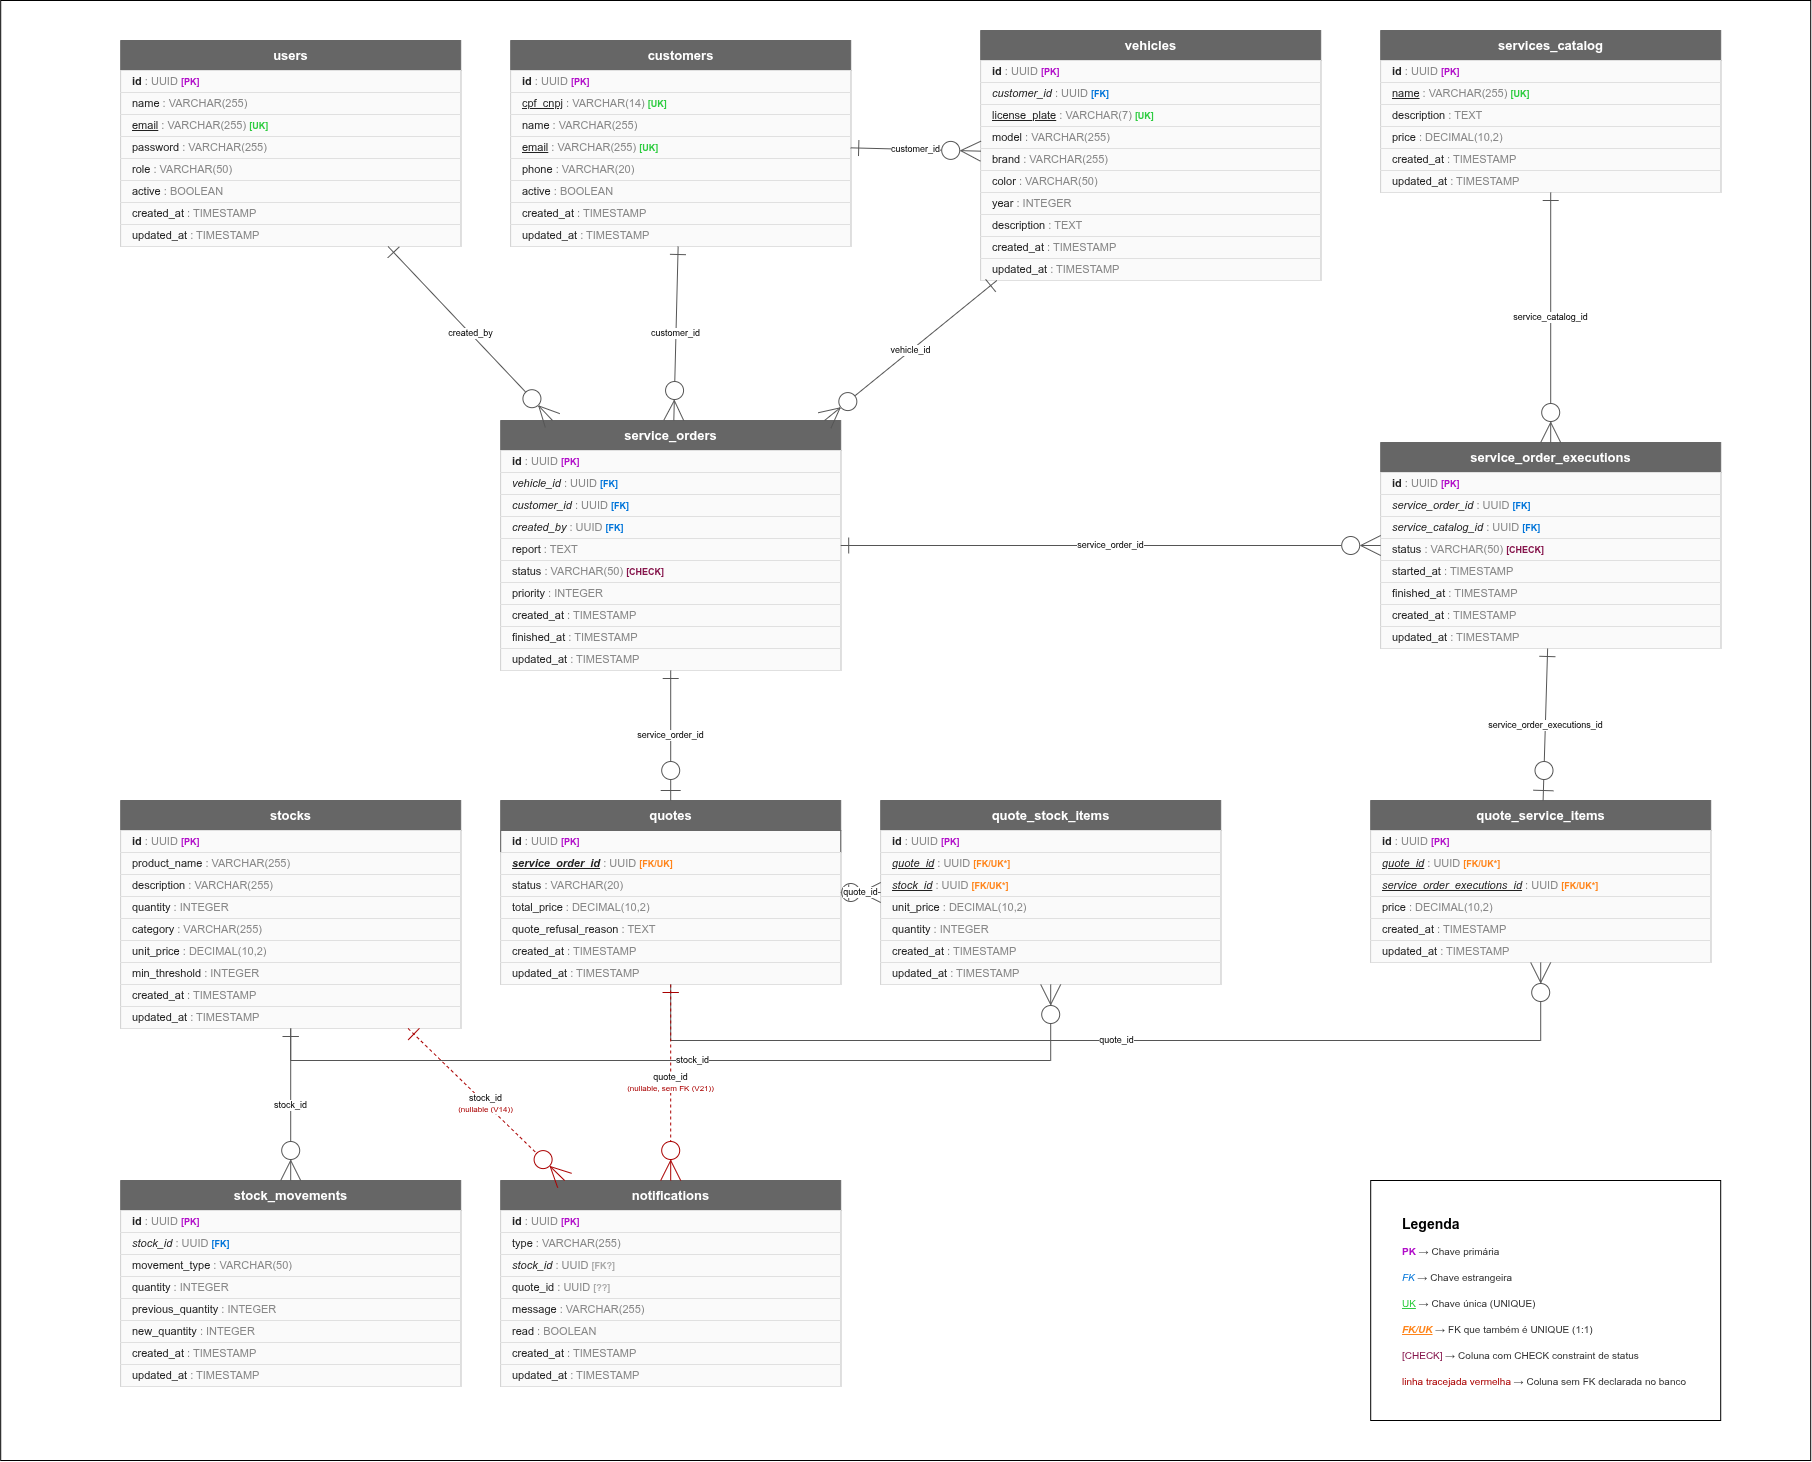
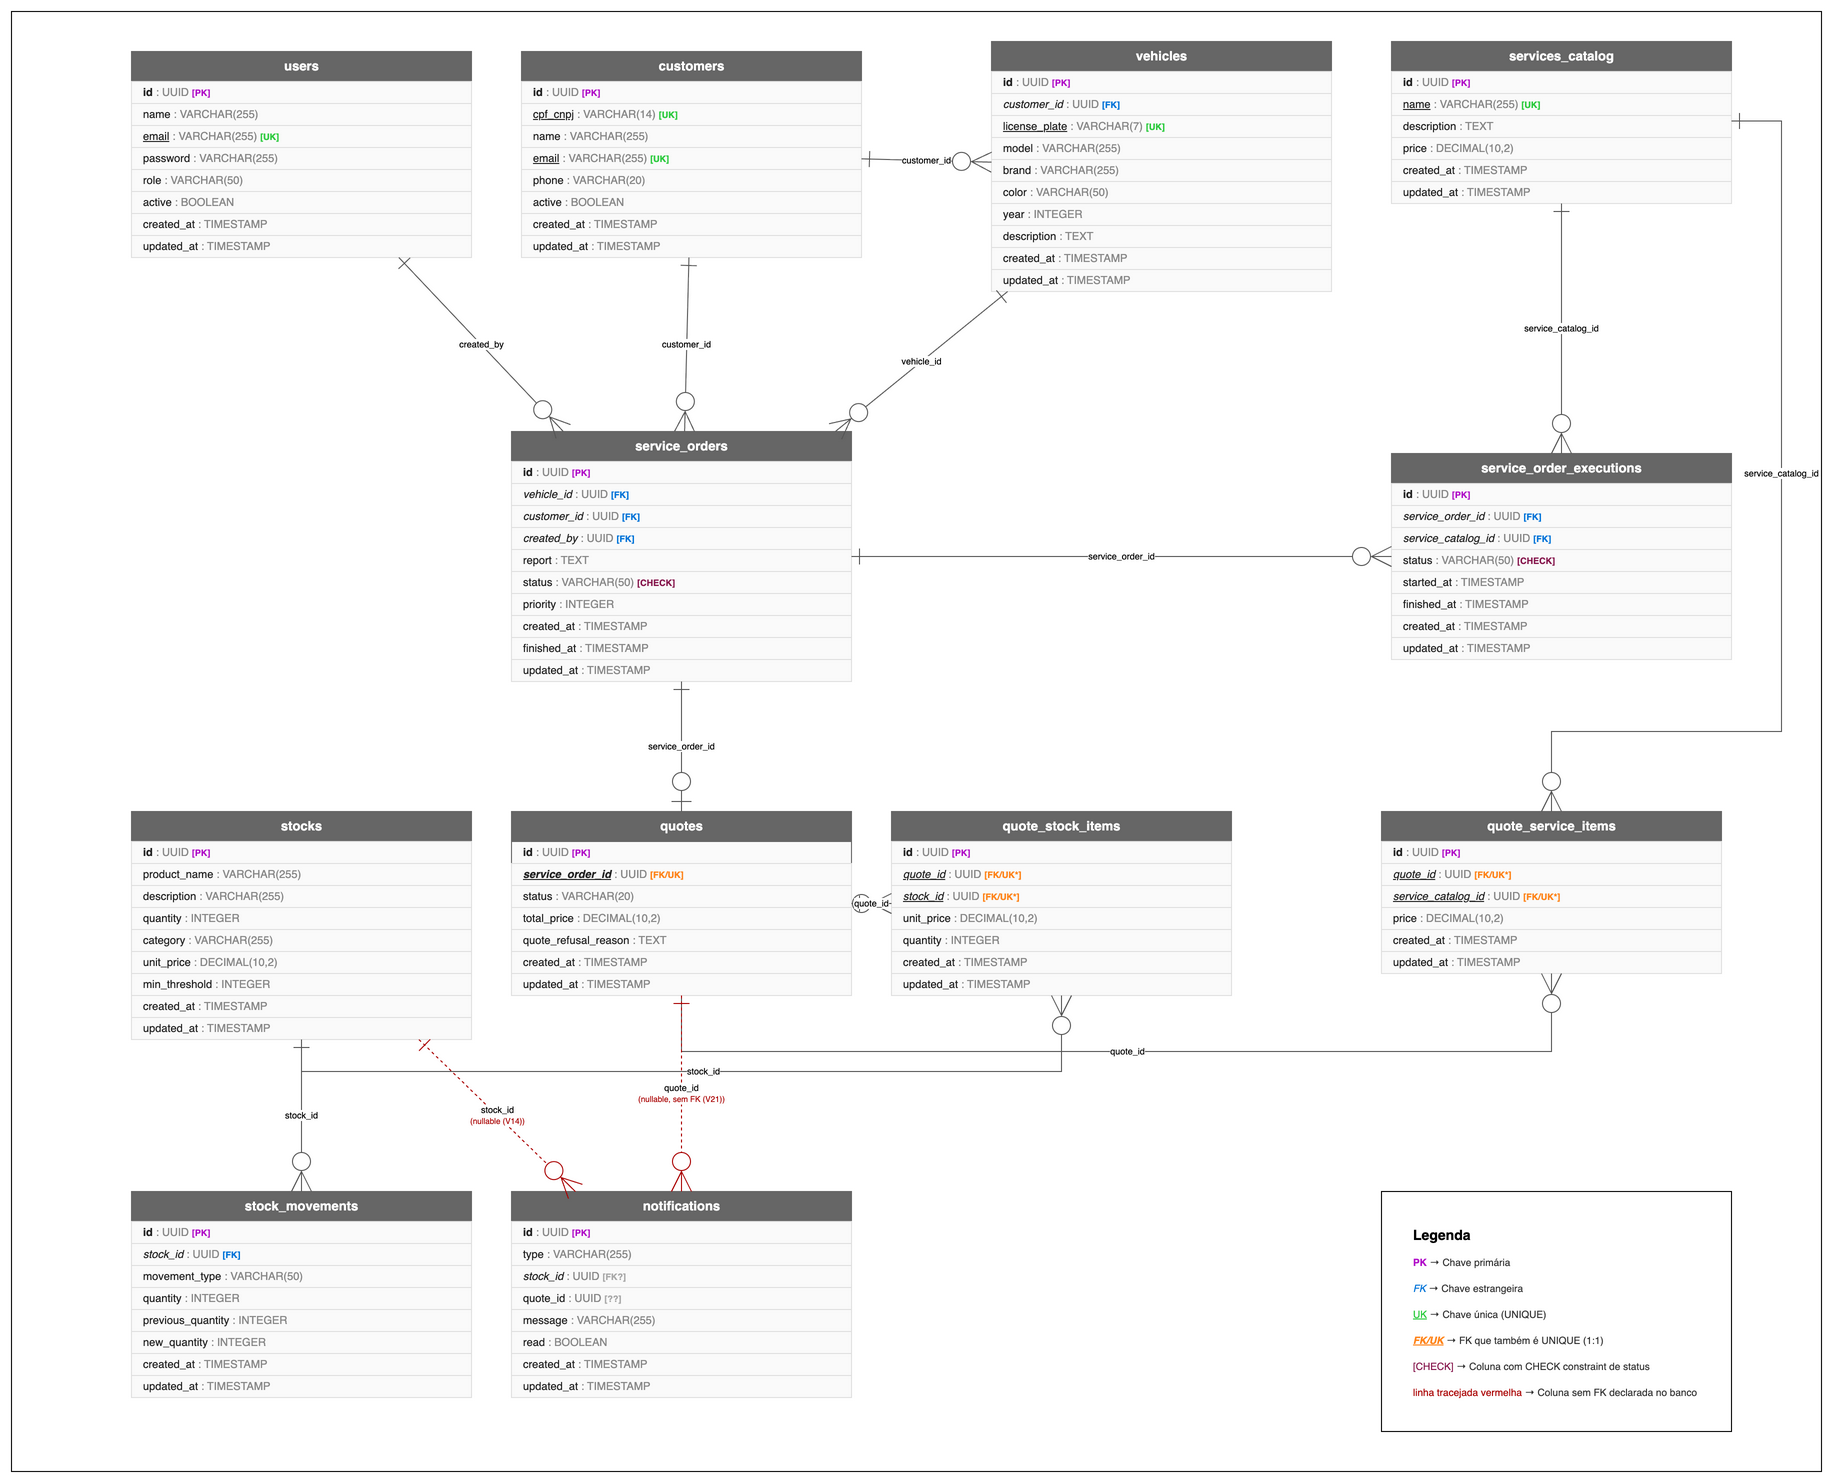
docs: atualizar o diagrama do banco com o item ligado ao catálogo

diff --git a/docs/DATABASE.md b/docs/DATABASE.md
@@ -169,9 +169,9 @@ As 12 tabelas do schema estão organizadas em 5 grupos visuais no diagrama:
 | 6 | `service_orders` → `service_order_executions` | 1 : N | Cada serviço incluído no orçamento gera uma "execução" própria (`ServiceOrderExecution`), permitindo acompanhar individualmente o andamento (`PENDING → IN_PROGRESS → COMPLETED/CANCELLED`) de cada item de serviço dentro da mesma OS.          |
 | 7 | `services_catalog` → `service_order_executions` | 1 : N | O catálogo de serviços (nome, descrição, preço) é reaproveitado por várias execuções, em OSs diferentes.                                                                                                                                         |
 | 8 | `quotes` → `quote_stock_items` | 1 : N | Itens de peças/estoque incluídos no orçamento, com preço e quantidade "congelados" no momento da cotação (mesmo que o preço do estoque mude depois).                                                                                             |
-| 9 | `quotes` → `quote_service_items` | 1 : N | Itens de serviço incluídos no orçamento, cada um associado a uma `service_order_execution` específica criada junto com o orçamento.                                                                                                              |
+| 9 | `quotes` → `quote_service_items` | 1 : N | Itens de serviço incluídos no orçamento, com o preço "congelado" no momento da cotação (mesmo que o preço do catálogo mude depois).                                                                                                              |
 | 10 | `stocks` → `quote_stock_items` | 1 : N | Uma peça do estoque pode aparecer em vários orçamentos ao longo do tempo; a criação do item já consome (reserva) a quantidade do estoque (`ConsumeStockUseCase`).                                                                                |
-| 11 | `service_order_executions` → `quote_service_items` | 1 : 0..1 | Cada execução de serviço é criada exclusivamente para um item de orçamento específico (par único `quote_id + service_order_executions_id`), por isso a cardinalidade é efetivamente 1 para 1 na prática, embora o schema modele como FK simples. |
+| 11 | `services_catalog` → `quote_service_items` | 1 : N | Um serviço do catálogo pode aparecer em vários orçamentos, mas no máximo uma vez por orçamento (par único `quote_id + service_catalog_id`). |
 | 12 | `stocks` → `stock_movements` | 1 : N | Toda entrada/saída de estoque gera um registro imutável de movimentação, com quantidade anterior e nova.                                                                                                                                         |
 | 13 | `stocks` → `notifications` | 0..1 : N | Notificação de estoque baixo (`type = LOW_STOCK`) referencia opcionalmente o item de estoque que a originou; `stock_id` é nullable desde `V14` para permitir notificações de outros tipos sem essa referência.                                   |
 | 14 | `quotes` → `notifications` | 0..1 : N (sem FK) | Notificação de orçamento pendente de aprovação (`type = QUOTE`) referencia opcionalmente o orçamento.                                                                                                                                            |
